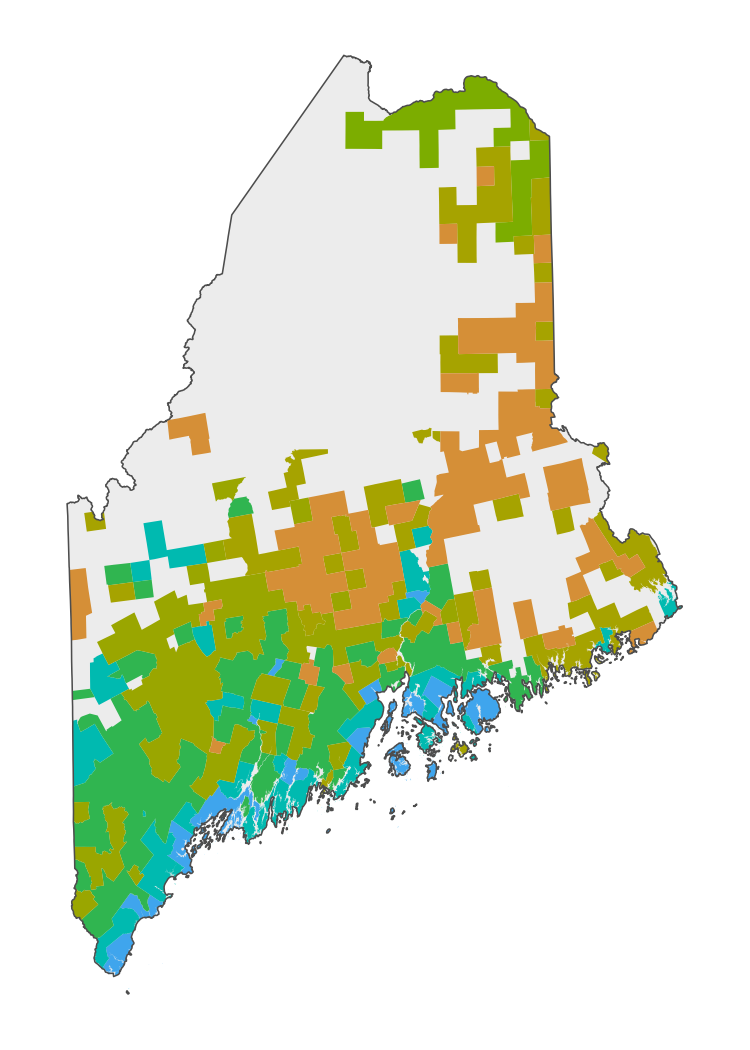
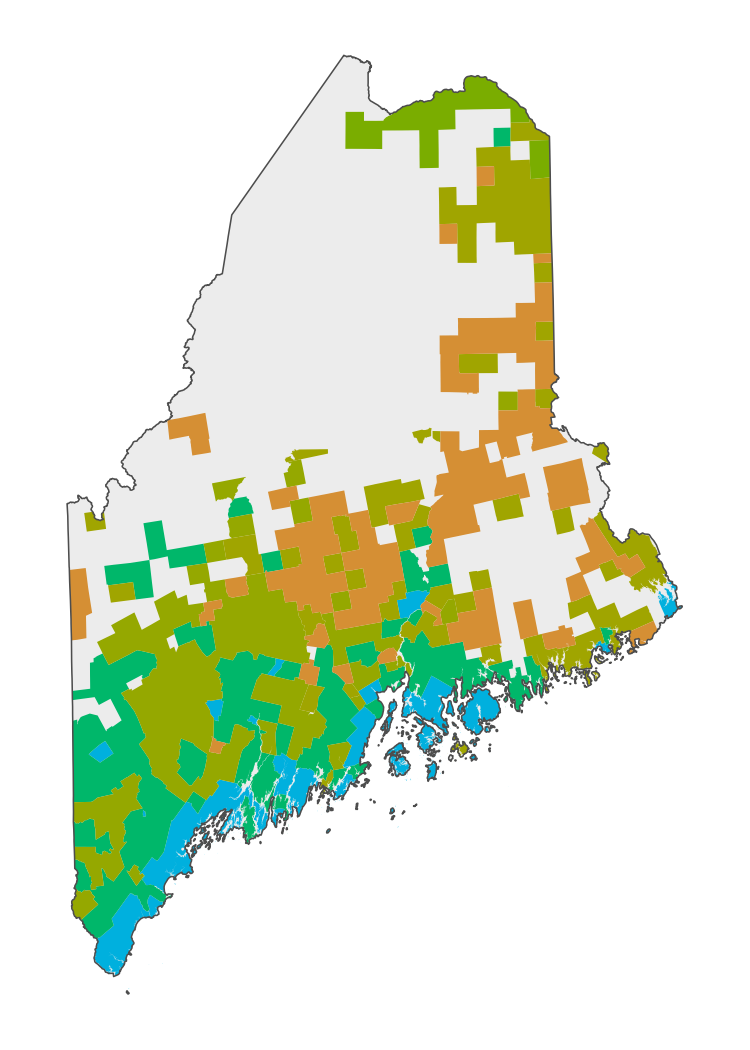
Atlas: Maine as six blocs from the stepping-stone fit
Maine now shows a representative T = 6 partition of the stepping-stone SMC
run (K = 10, zeta = 0.3, nu floor 50) instead of the EM K = 7 fit, named
The Old Coast, The River Towns, New France, The Mills, The County and
The Deep Woods, numbered by Harris 2024 share and coloured on the atlas's
shared scale. Panel, zoom maps, PCA and US map rebuilt.

diff --git a/research/_atlas_panels.html b/research/_atlas_panels.html
@@ -178,20 +178,19 @@
 <section class="atlas-panel" id="panel-me" hidden>
   <header class="atlas-panel-head"><h2>Maine</h2>
     <button type="button" class="atlas-close" aria-label="Close Maine panel">&times;</button></header>
-  <p class="atlas-panel-sub">462 towns, 72 statewide questions, 2008–2025, 7 voting blocs.</p>
+  <p class="atlas-panel-sub">462 towns, 72 statewide questions, 2008–2025, 6 voting blocs.</p>
   <div class="atlas-panel-grid">
     <figure class="atlas-pca"><img loading="lazy" src="../files/images/research/atlas/me_pca.gif" alt="Rotating three-dimensional plot of Maine towns on their first three Jensen-Shannon principal coordinates, colored by voting bloc, with numbered bloc centroids.">
       <figcaption>Towns on the first three principal coordinates of their voting (PC1 60% of variation). Numbers mark bloc centers. <strong>Click the plot</strong> to color the same points by density, race and education.</figcaption></figure>
     <ol class="atlas-blocs">
-      <li><span class="bloc-swatch" style="background:#3FA5ED;color:#111">1</span><span class="bloc-name">The Old Coast</span><span class="bloc-meta">39 towns &middot; Harris 2024 74%</span></li>
-      <li><span class="bloc-swatch" style="background:#00BAB0;color:#111">2</span><span class="bloc-name">The River Towns</span><span class="bloc-meta">62 towns &middot; Harris 2024 61%</span></li>
-      <li><span class="bloc-swatch" style="background:#30B550;color:#111">3</span><span class="bloc-name">The Mills</span><span class="bloc-meta">93 towns &middot; Harris 2024 48%</span></li>
-      <li><span class="bloc-swatch" style="background:#7CAD00;color:#111">4</span><span class="bloc-name">New France</span><span class="bloc-meta">19 towns &middot; Harris 2024 43%</span></li>
-      <li><span class="bloc-swatch" style="background:#9AA600;color:#111">5</span><span class="bloc-name">Hills and Fields</span><span class="bloc-meta">81 towns &middot; Harris 2024 39%</span></li>
-      <li><span class="bloc-swatch" style="background:#A6A300;color:#111">6</span><span class="bloc-name">North Woods</span><span class="bloc-meta">74 towns &middot; Harris 2024 37%</span></li>
-      <li><span class="bloc-swatch" style="background:#D58F37;color:#111">7</span><span class="bloc-name">Hinterlands</span><span class="bloc-meta">94 towns &middot; Harris 2024 28%</span></li>
+      <li><span class="bloc-swatch" style="background:#00B0DE;color:#111">1</span><span class="bloc-name">The Old Coast</span><span class="bloc-meta">74 towns &middot; Harris 2024 69%</span></li>
+      <li><span class="bloc-swatch" style="background:#00B76A;color:#111">2</span><span class="bloc-name">The River Towns</span><span class="bloc-meta">107 towns &middot; Harris 2024 51%</span></li>
+      <li><span class="bloc-swatch" style="background:#7AAD00;color:#111">3</span><span class="bloc-name">New France</span><span class="bloc-meta">14 towns &middot; Harris 2024 43%</span></li>
+      <li><span class="bloc-swatch" style="background:#95A800;color:#111">4</span><span class="bloc-name">The Mills</span><span class="bloc-meta">94 towns &middot; Harris 2024 40%</span></li>
+      <li><span class="bloc-swatch" style="background:#A0A500;color:#111">5</span><span class="bloc-name">The County</span><span class="bloc-meta">75 towns &middot; Harris 2024 38%</span></li>
+      <li><span class="bloc-swatch" style="background:#D58F34;color:#111">6</span><span class="bloc-name">The Deep Woods</span><span class="bloc-meta">98 towns &middot; Harris 2024 28%</span></li>
     </ol>
-    <figure class="atlas-state-map"><div class="atlas-zoom"><img loading="lazy" src="../files/images/research/atlas/me_map.png" data-hi="../files/images/research/atlas/me_map_hi.png" data-lines="../files/images/research/atlas/me_lines.png" data-labels="../files/images/research/atlas/me_labels.json" alt="Map of Maine towns colored by voting bloc (7 blocs)." draggable="false"></div><figcaption>Scroll, pinch or double-click to zoom; drag to pan. Zoom in for boundaries and town names.</figcaption></figure>
+    <figure class="atlas-state-map"><div class="atlas-zoom"><img loading="lazy" src="../files/images/research/atlas/me_map.png" data-hi="../files/images/research/atlas/me_map_hi.png" data-lines="../files/images/research/atlas/me_lines.png" data-labels="../files/images/research/atlas/me_labels.json" alt="Map of Maine towns colored by voting bloc (6 blocs)." draggable="false"></div><figcaption>Scroll, pinch or double-click to zoom; drag to pan. Zoom in for boundaries and town names.</figcaption></figure>
   </div>
   <div class="atlas-demog" id="demog-me" hidden>
     <img loading="lazy" width="1200" height="400" data-src="../files/images/research/atlas/me_demog.gif" alt="Three synchronized rotating plots of the same towns on the same principal coordinates, colored by population density, by racial composition, and by share with a bachelor's degree.">
